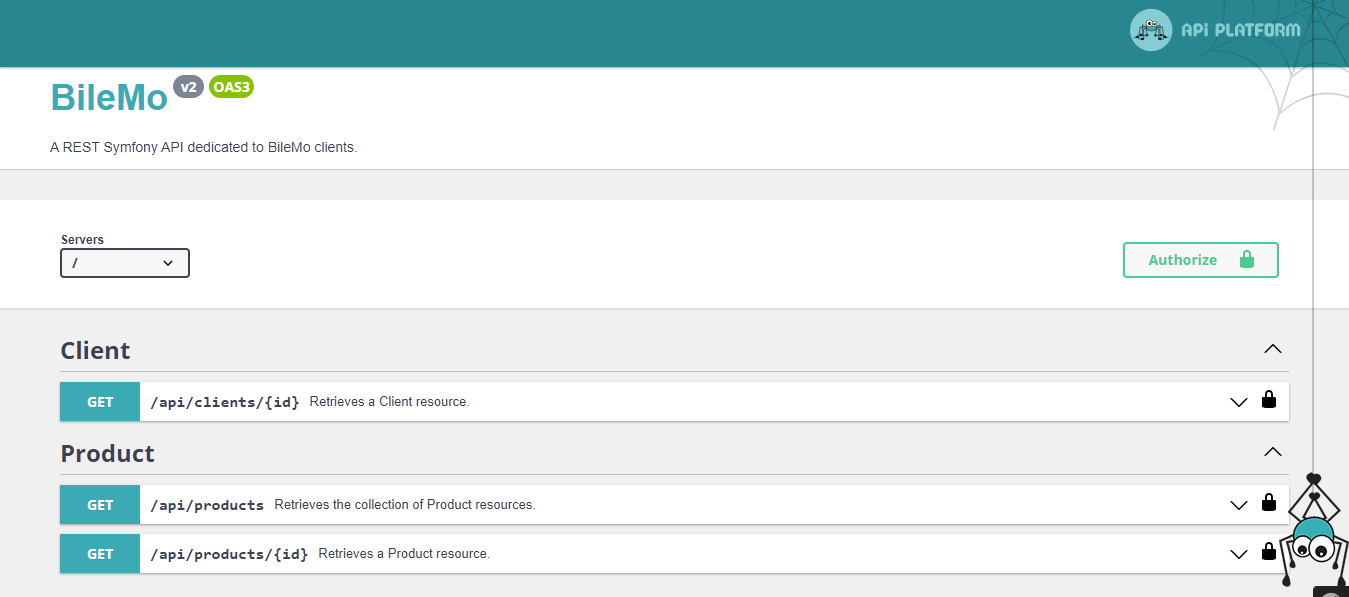
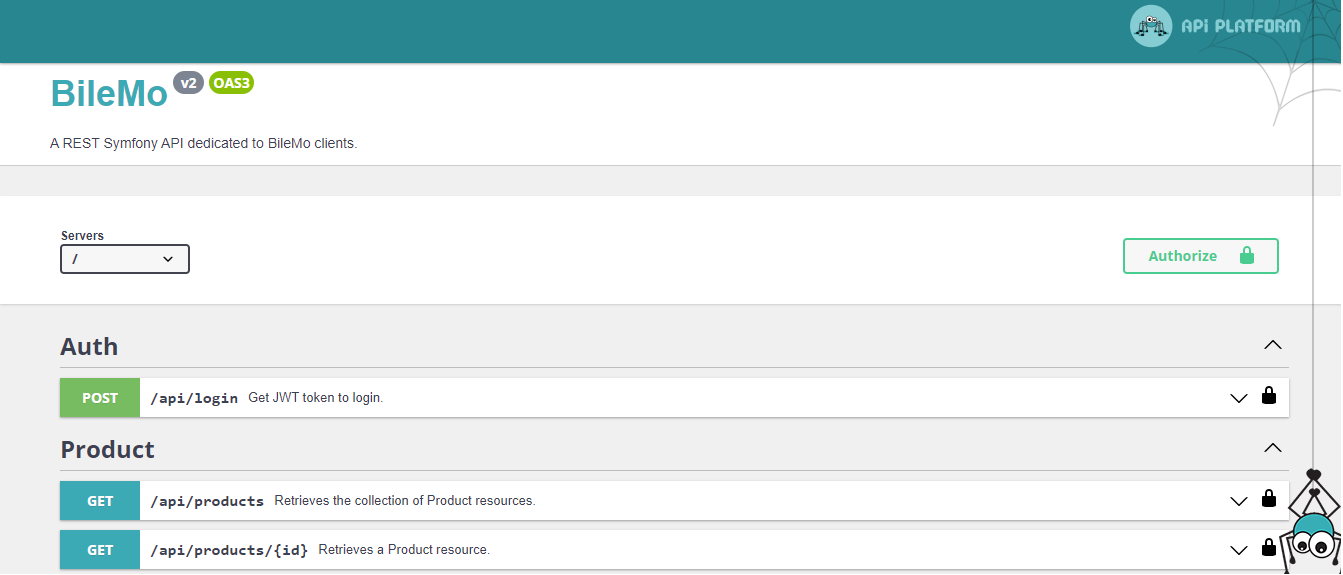
bug fixed on security

diff --git a/P7_api_rest_bilemo/src/OpenApi/OpenApiFactory.php b/P7_api_rest_bilemo/src/OpenApi/OpenApiFactory.php
@@ -87,6 +87,9 @@ class OpenApiFactory implements OpenApiFactoryInterface
             )
         );
         $openApi->getPaths()->addPath('/api/login', $pathItem);
+#refresh token 
+
+
 
         foreach ($openApi->getPaths()->getPaths() as $key => $path) {
             if ($path->getGet() && $path->getGet()->getSummary() === 'hidden') {
